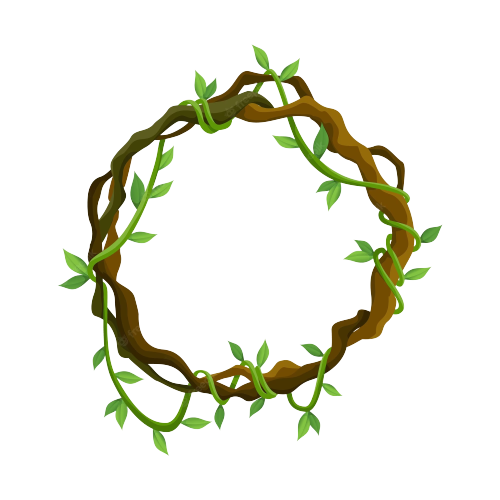
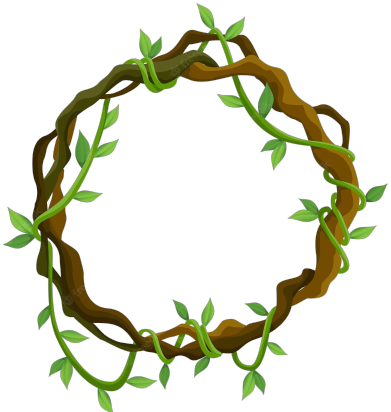
profile LIANE + waiting room finish

diff --git a/frontend/src/pages/profile.tsx b/frontend/src/pages/profile.tsx
@@ -100,8 +100,8 @@ async function getId() {
 
 const Profile = () => {
   let { id } = useParams();
-  const PROFILE_DATA_BASE_URL =
-    "http://localhost/backend/api/player/getUserInfos.php?profileId="; 
+  const PROFILE_DATA_BASE_URL = // http://localhost/backend/api/
+    "http://localhost/backend/api/player/getUserInfos.php?profileId=";  // https://zoo-ggle.berachem.dev/V2/api/
   const [profileData, setProfileData] = useState({
     pseudo: "",
     description: "",
@@ -292,14 +292,14 @@ const Profile = () => {
                 icon={faCloud}
                 style={{ marginRight: "5px" }}
               />
-              connecté{" "}
+              Connecté{" "}
               {getDifferenceTimeSentence(profileData.lastConnectionDate)}
             </span>
           </div>
 
           <div className="flex flex-col md:flex-row items-center mb-8 justify-center">
 
-            <div className="rounded-full pr-4">
+            <div className="AvatarProfilediv">
              {/*  
               ////////////////// 
              ////// DECOR 
@@ -312,7 +312,7 @@ const Profile = () => {
                 
               /> */}
               <img
-                className="w-32 h-32 rounded-full mr-0 md:mr-8 mb-4 md:mb-0 AvatarProfile"
+                className="AvatarProfile"
                 src={
                   "https://ui-avatars.com/api/?background=random&name=" +
                   profileData.pseudo

diff --git a/frontend/src/css/profile.css b/frontend/src/css/profile.css
@@ -1,17 +1,60 @@
 * {
     font-family: 'Montserrat', sans-serif !important;
 }
+.AvatarProfilediv{
+    position: relative;
+    border-radius: 9999px;
+/*     border: 3px solid red; */
+    display: flex;
+    flex-direction: column;
+    margin-right: 2rem;
 
-.decorAvatar {
+}
+.AvatarProfilediv > .AvatarProfile{
+    /* w-32 h-32 rounded-full mr-0 md:mr-8 mb-4 md:mb-0*/
+    width: 8rem;
+    height: 8rem;
+    border-radius: 9999px;
+    margin-right: 0;
+    margin-bottom: 1rem;
+
+ 
+ /*    border: 8px solid rgb(25, 255, 36); */
+    
+}
+
+.AvatarProfilediv:after{ 
+    content: "";
+    position:absolute; 
+
+    background-image: url('../assets/images/circulaire_avatar_liane.png');
+    background-size:  100% 100%;
+    width: 120%;
+    height: 120%;
+    left: -8%;
+    top: -15%;
+    z-index: 999;
+/*     border: 1px solid rgb(215, 20, 20); */
+
+    
+   }
+
+@media screen and (max-width: 720px) {
+
+    .AvatarProfilediv{
+        margin-right: 0rem;
+    }
+
+}
+
+
+/* .decorAvatar {
     position: absolute;
     top: 35px;
     left: 395px;
     z-index: 2;
 
 }
-
-
-/* RESPONSIVE */
 
 
 @media screen and (max-width: 1867px) {
@@ -77,6 +120,6 @@
         z-index: 2;
     }
 }
-
+ */
 
 

diff --git a/frontend/src/pages/waitingRoom.tsx b/frontend/src/pages/waitingRoom.tsx
@@ -141,7 +141,7 @@ export default function WaitingRoom() {
               <p>{mode.regles}</p>
             </div>
             <div className="WaitingRoom_CardPlayers">
-              <h3>Joueurs {players.length}/{mode.joueurs}{" "}<FontAwesomeIcon icon={faUser} style={{ color: mode.couleur }} /></h3>
+              <h3>Joueurs ({players.length}/{mode.joueurs}){" "}<FontAwesomeIcon icon={faUser} style={{ color: mode.couleur }} /></h3>
               <div className="WaitingRoom_CardPlayersList">
                 {players.join(", ")}
               </div>

diff --git a/frontend/src/css/choixPartie.css b/frontend/src/css/choixPartie.css
@@ -14,7 +14,7 @@
     flex-direction: column;
     justify-content: space-evenly;
     width: 30vw;
-    height: 90vh;
+    height: 85vh;
     background-color: rgba(255, 255, 255, 0.95);
     border: 3px solid white;
     border-radius: 15px;
